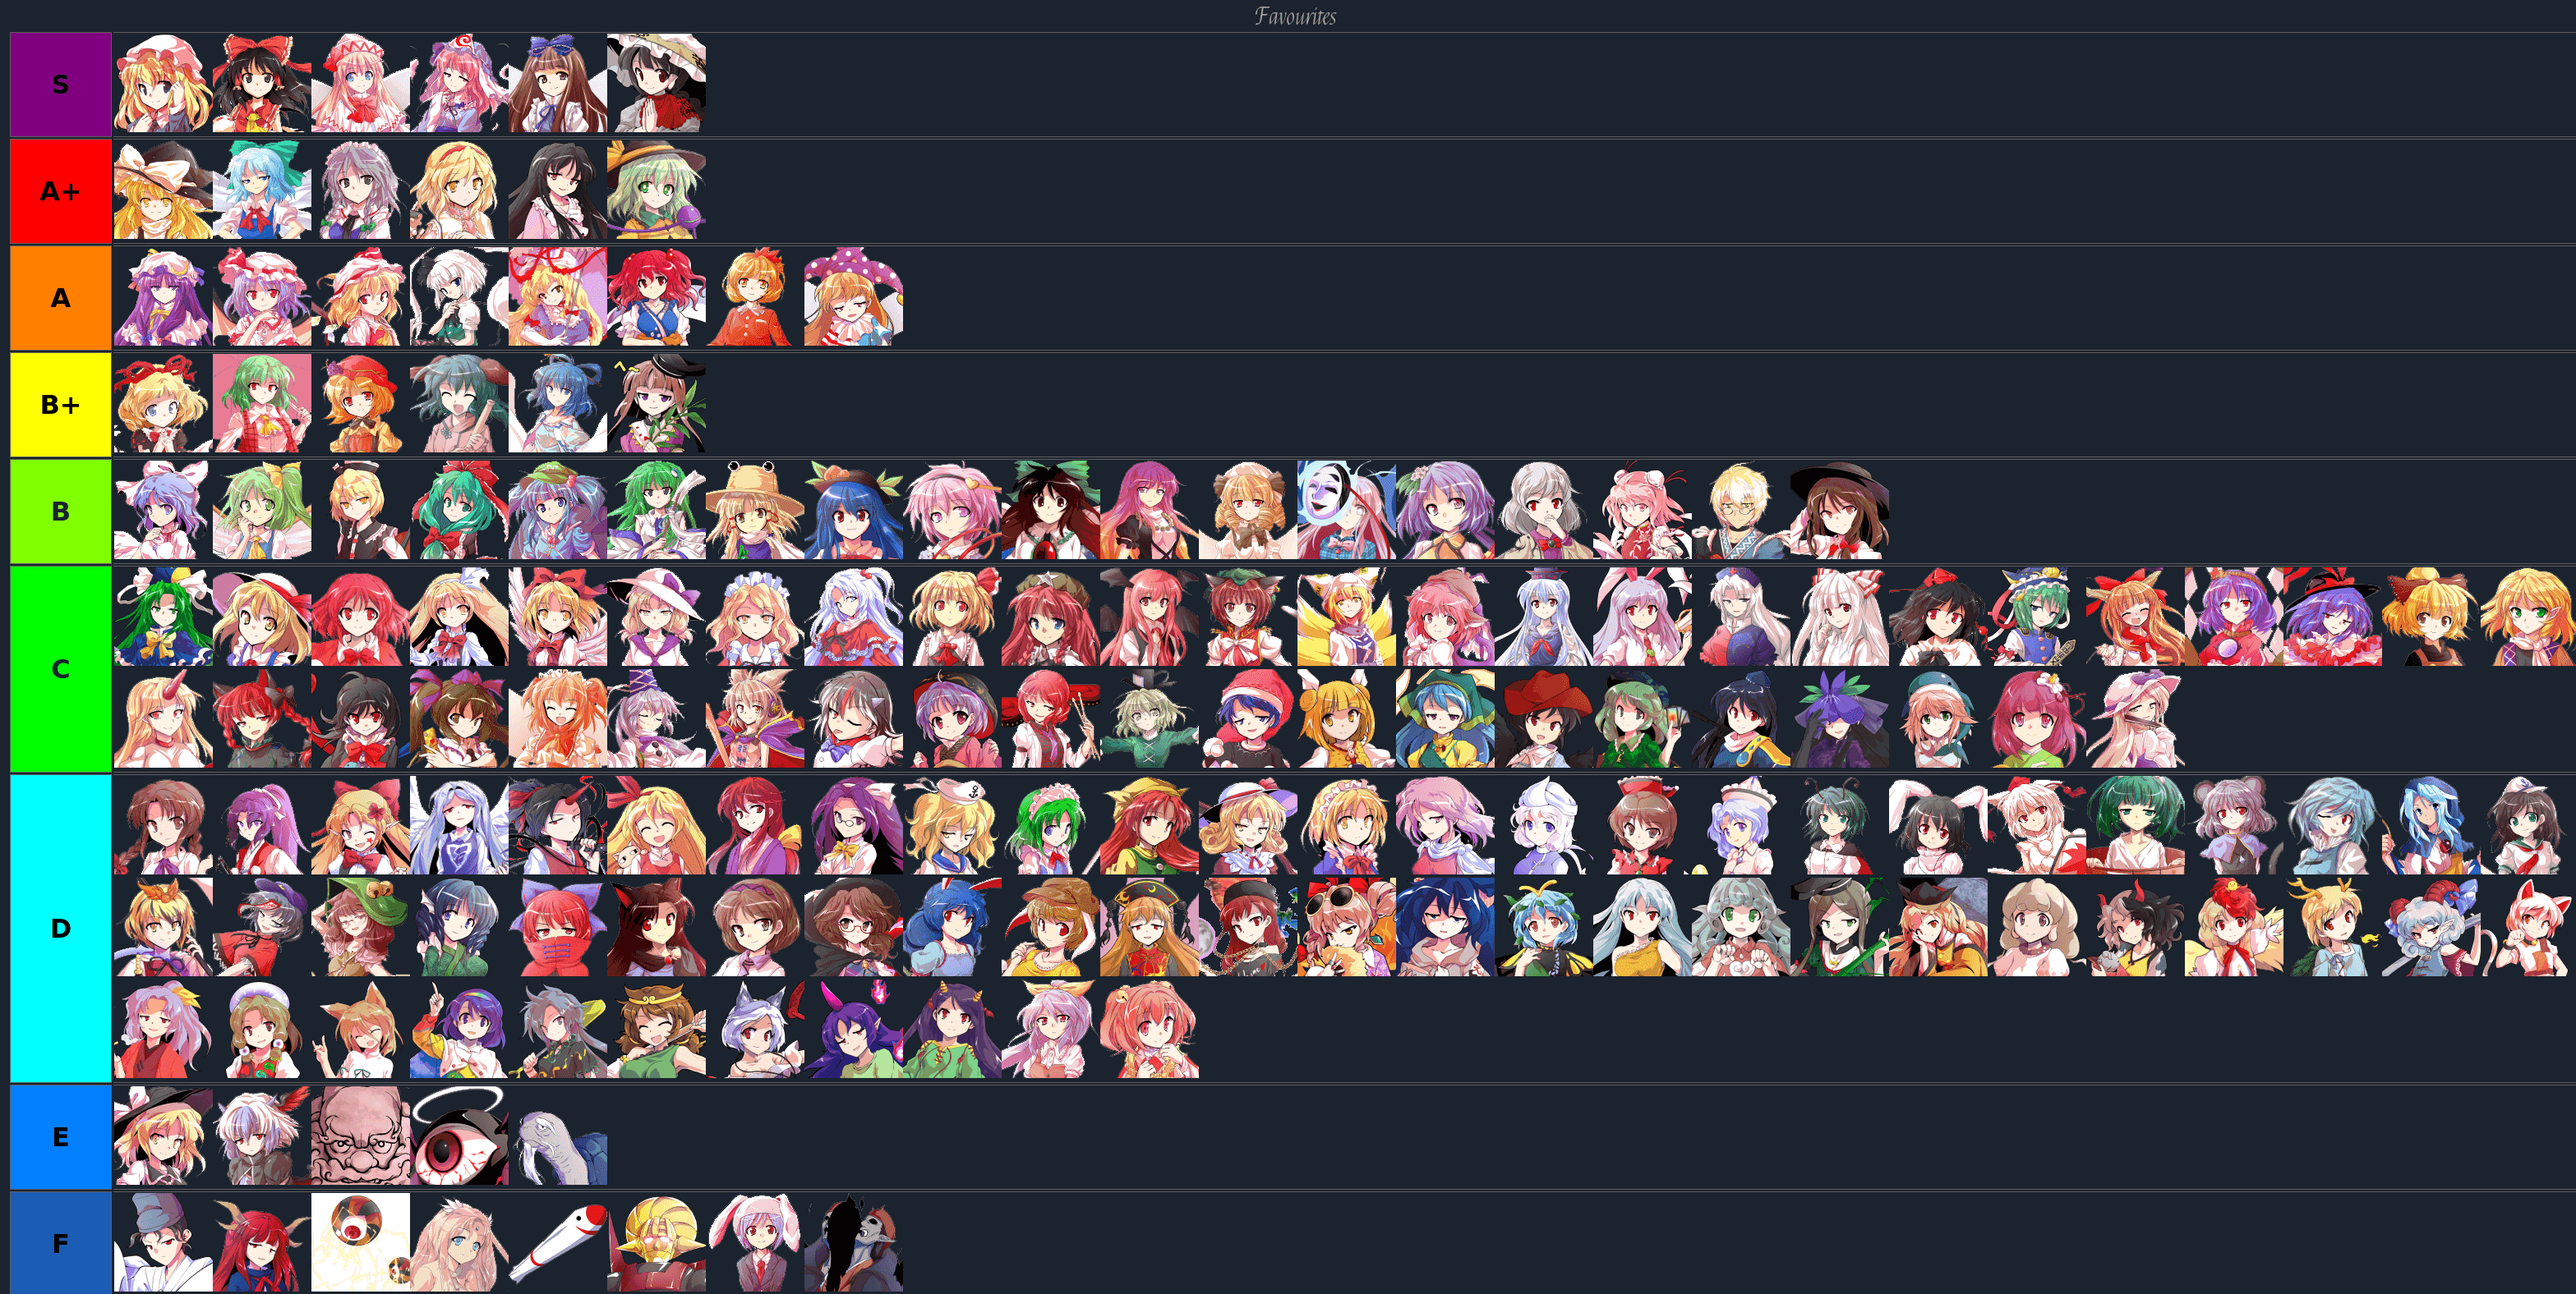
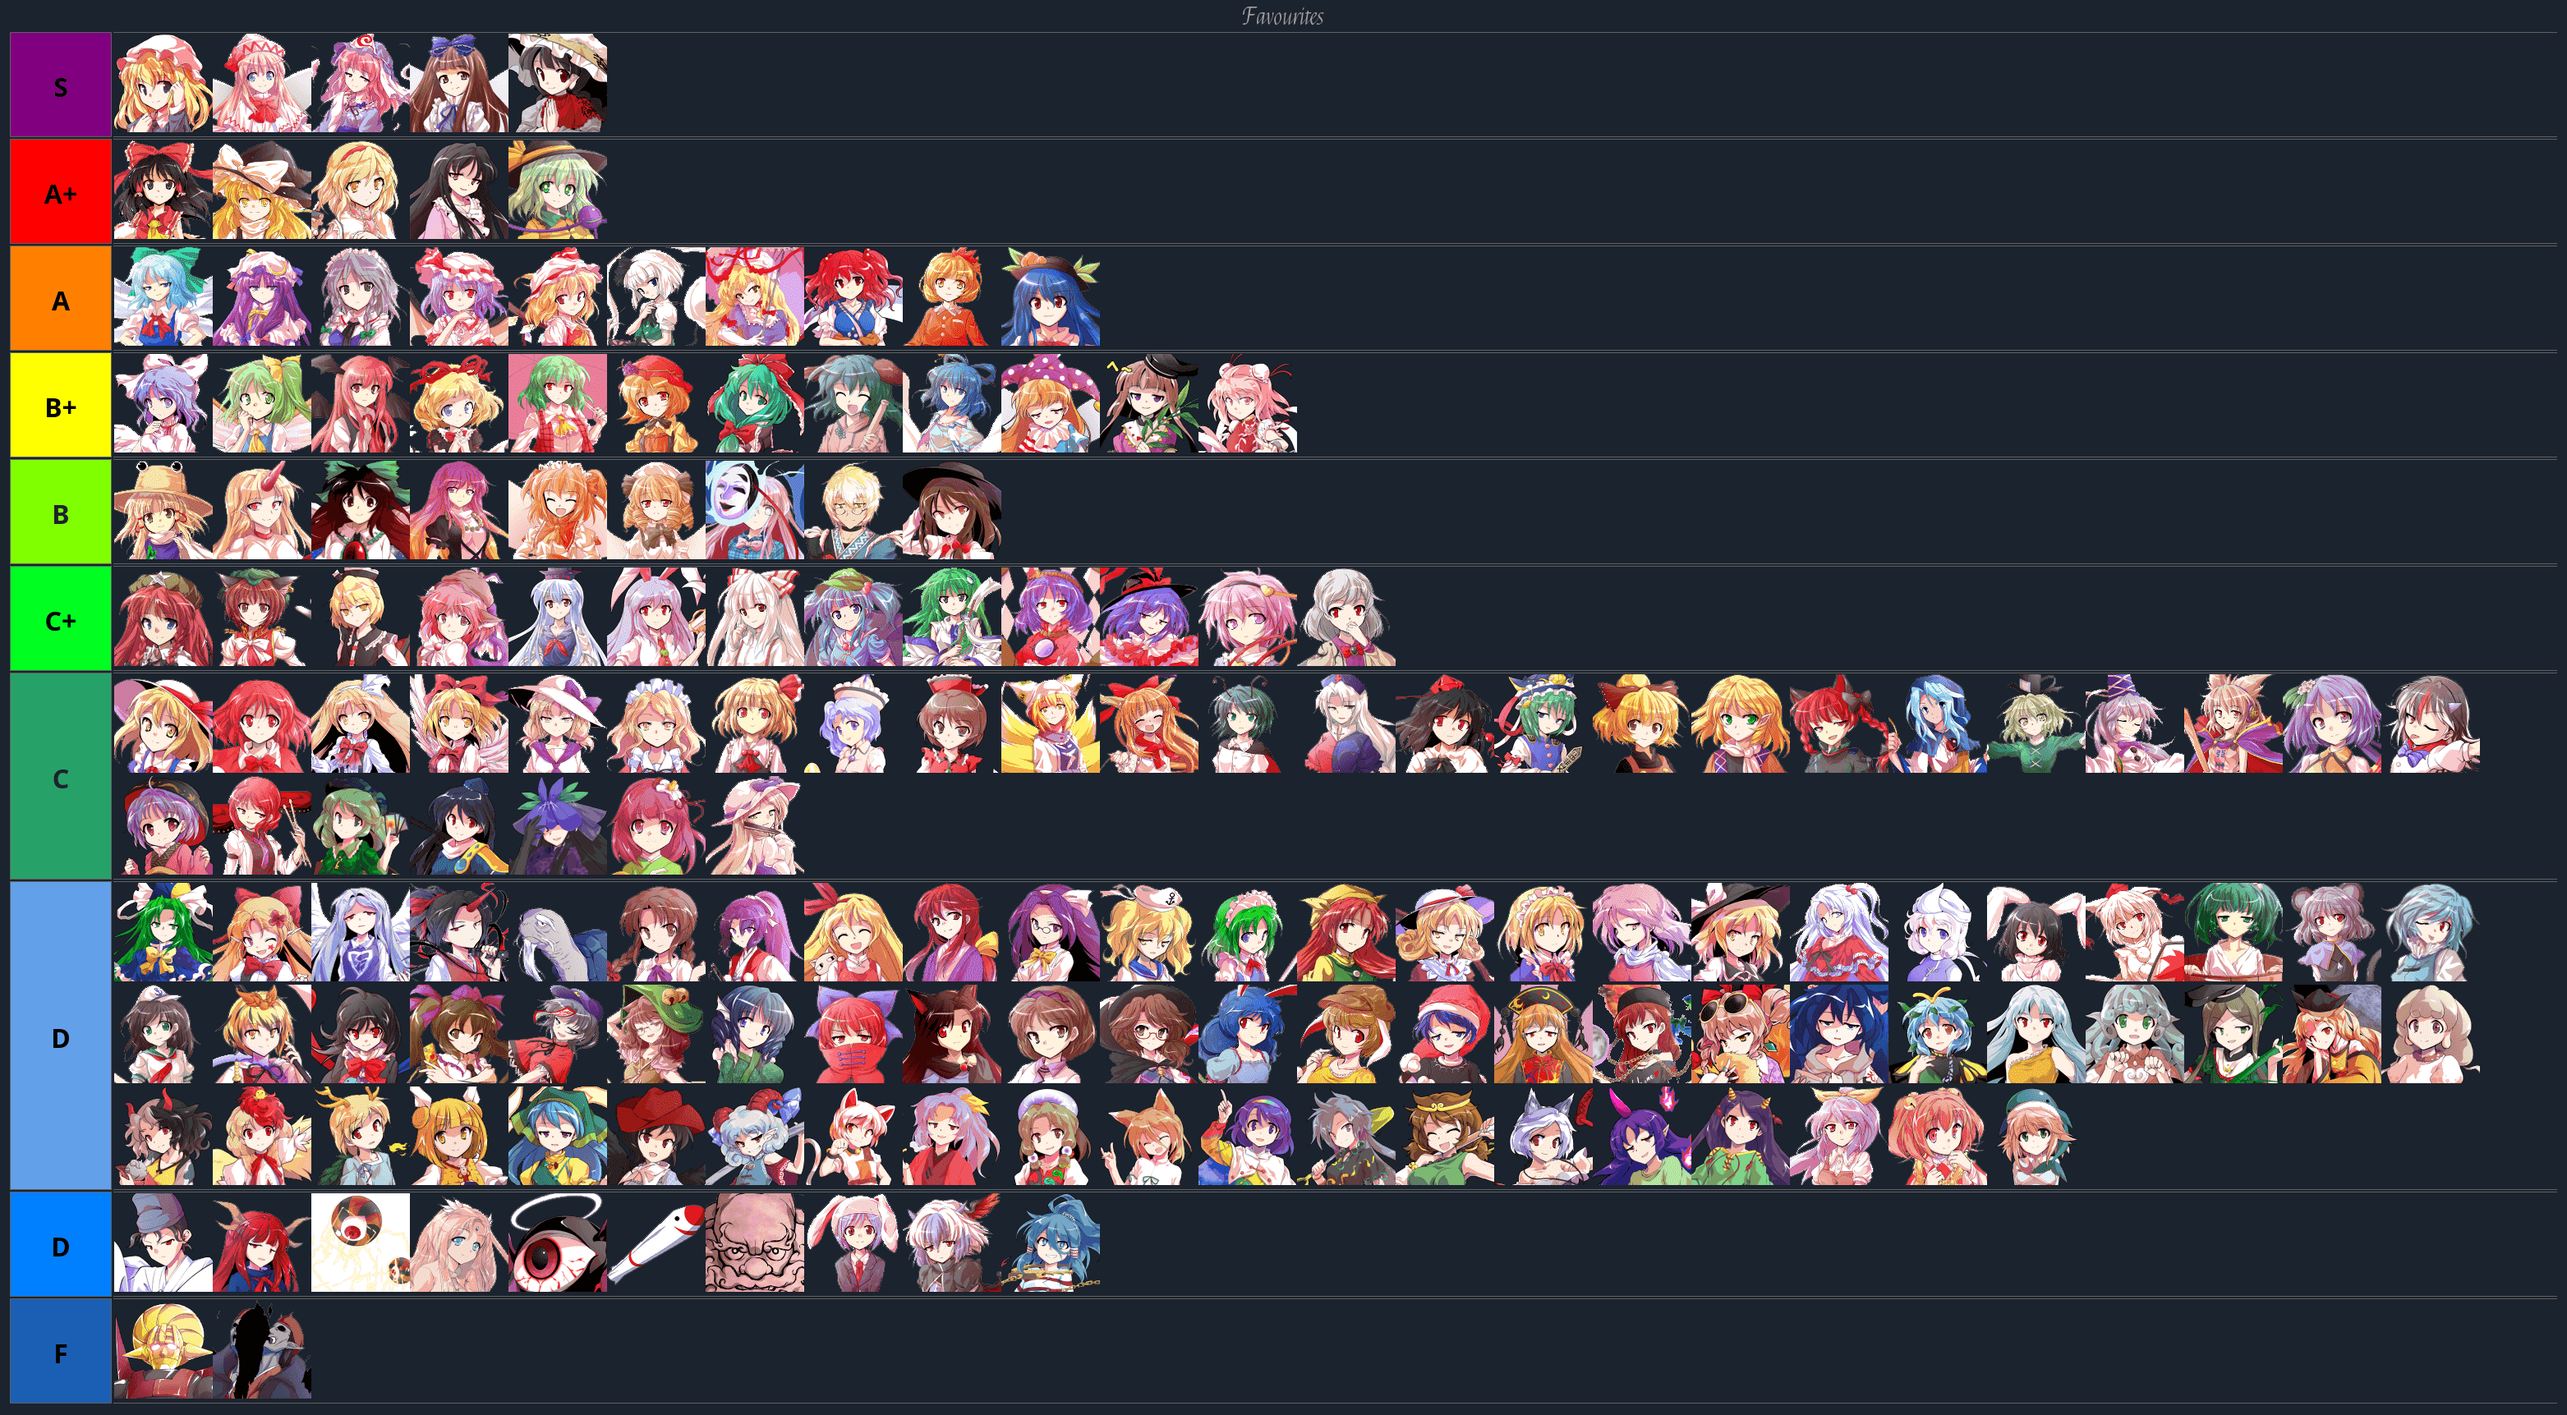
[About] Update about page

diff --git a/php/about.php b/php/about.php
@@ -40,9 +40,8 @@
         <li>Saitama Saisyu Heiki (aka S.S.H, most notably eXceed 3rd)</li>
     </ul>
     <p class='wide'>OST makes up more than 90% of all of my time spent listening to music. My favourite OSTs to listen to
-    include Labyrinth of Touhou, Seihou Shuusou Gyoku, Samidare, Dodonpachi Saidaioujou, Mushihime-sama as well as Futari,
-    Great Fairy Wars, Subterranean Animism, Shining Shooting Star, Mrs. Estacion, eXceed 3rd, Guwange and Ikaruga;
-    many more follow suit. Some of my favourite themes are listed in the table below.</p>
+    include Labyrinth of Touhou, Seihou Shuusou Gyoku and various other games that I have played.
+    Some of my favourite themes are listed in the table below.</p>
     <table id='music_links' class='noborders'>
         <thead>
             <tr>
@@ -52,6 +51,11 @@
             </tr>
         </thead>
         <tbody>
+            <tr>
+                <td><a href='https://www.youtube.com/watch?v=AAdHRSUNZUs' target='_blank'>Bloom Nobly, Ink-Black Cherry Blossom ~ Border of Life</a></td>
+                <td>Touhou 7: Perfect Cherry Blossom, Final Boss</td>
+                <td>ZUN</td>
+            </tr>
             <tr>
                 <td><a href='https://www.youtube.com/watch?v=pw2WQjqKpVM' target='_blank'>Flight of the Bamboo Cutter ~ Lunatic Princess</a></td>
                 <td>Touhou 8: Imperishable Night, Final Boss</td>
@@ -63,20 +67,48 @@
                 <td>ZUN</td>
             </tr>
             <tr>
+                <td><a href='https://www.youtube.com/watch?v=ITYCfbE76ZM' target='_blank'>The Venerable Ancient Battlefield ~ Suwa Foughten Field</a></td>
+                <td>Touhou 10: Mountain of Faith, Stage 5</td>
+                <td>ZUN</td>
+            </tr>
+            <tr>
+                <td><a href='https://www.youtube.com/watch?v=mkziV4fQy2Y' target='_blank'>Skies Beyond the Clouds</a></td>
+                <td>Touhou 10.5: Scarlet Weather Rhapsody, Iku Pre-Battle</td>
+                <td>U2 Akiyama</td>
+            </tr>
+            <tr>
+                <td><a href='https://www.youtube.com/watch?v=5Bda8sKdoIk' target='_blank'>Heartfelt Fancy</a></td>
+                <td>Touhou 11: Subterranean Animism, Stage 4</td>
+                <td>ZUN</td>
+            </tr>
+            <tr>
                 <td><a href='https://www.youtube.com/watch?v=7wEHo_uUgZ0' target='_blank'>Hartmann's Youkai Girl</a></td>
                 <td>Touhou 11: Subterranean Animism, Extra Stage Boss</td>
                 <td>ZUN</td>
+            </tr>
             <tr>
                 <td><a href='https://www.youtube.com/watch?v=yHlbViNW-eI' target='_blank'>The Refrain of the Lovely Great War</a></td>
                 <td>Touhou 12.8: Great Fairy Wars, Stage 1</td>
                 <td>ZUN</td>
+            </tr>
             <tr>
-                <td><a href='https://www.youtube.com/watch?v=IUKsMBN7dS4&t=54s' target='_blank'>The Hall of Dreams' Great Mausoleum</a></td>
+                <td><a href='https://www.youtube.com/watch?v=Sf0weS6_iuM' target='_blank'>Staking Your Life on a Prank</a></td>
+                <td>Touhou 12.8: Great Fairy Wars, Boss Battle</td>
+                <td>ZUN</td>
+            </tr>
+            <tr>
+                <td><a href='https://www.youtube.com/watch?v=IUKsMBN7dS4' target='_blank'>The Hall of Dreams' Great Mausoleum</a></td>
                 <td>Touhou 13: Ten Desires, Stage 5</td>
                 <td>ZUN</td>
+            </tr>
             <tr>
                 <td><a href='https://www.youtube.com/watch?v=0o8xTL_W-9I' target='_blank'>Illusionary White Traveler</a></td>
                 <td>Touhou 16: Hidden Star in Four Seasons, Stage 4</td>
+                <td>ZUN</td>
+            </tr>
+            <tr>
+                <td><a href='https://www.youtube.com/watch?v=sxpRSGm-2ao#t=5m29s' target='_blank'>False Strawberry</a></td>
+                <td>Seihou Shuusou Gyoku, Stage 1</td>
                 <td>ZUN</td>
             </tr>
             <tr>
@@ -90,9 +122,15 @@
                 <td>ZUN</td>
             </tr>
             <tr>
+                <td><a href='https://www.youtube.com/watch?v=HshrdY3Mu8I' target='_blank'>Endless Night View</a></td>
+                <td>Seihou Banshiryuu C67, Stage 2</td>
+                <td>halt, Doku Den P</td>
+            </tr>
+            <tr>
                 <td><a href='https://www.youtube.com/watch?v=gJuIRucytTc' target='_blank'>Trans--</a></td>
                 <td>Seihou Banshiryuu C67, Final Boss</td>
                 <td>halt, Doku Den P</td>
+            </tr>
             <tr>
                 <td><a href='https://www.youtube.com/watch?v=OfH1FrSlDws' target='_blank'>Broken Strawberry Shortcake</a></td>
                 <td>Samidare, Extra Stage Second Boss</td>
@@ -104,14 +142,29 @@
                 <td>Misora</td>
             </tr>
             <tr>
+                <td><a href='https://www.youtube.com/watch?v=hW0imzh6KiU' target='_blank'>And Forever, the End of the Dream</a></td>
+                <td>Mrs. Estacion, Staff Roll</td>
+                <Td>Misora</td>
+            </tr>
+            <tr>
                 <td><a href='https://www.youtube.com/watch?v=L_aUBbZ2rJQ' target='_blank'>Eternal Stars in Memories</a></td>
                 <td>Touhou Shining Shooting Star, Stage 5</td>
                 <td>Shihenwx</td>
             </tr>
             <tr>
+                <td><a href='https://www.youtube.com/watch?v=AoE-S6z5K-E' target='_blank'>Flowers in the Wind, Moon in the Snow</a></td>
+                <td>Touhou Shining Shooting Star, Extra Boss</td>
+                <td>11</td>
+            </tr>
+            <tr>
                 <td><a href='https://www.youtube.com/watch?v=8ym2uK-nm7k' target='_blank'>Reality</a></td>
                 <td>Ikaruga, Stage 4</td>
                 <td>Hiroshi Iuchi</td>
+            </tr>
+            <tr>
+                <td><a href='https://www.youtube.com/watch?v=5kjD1AYEpV0' target='_blank'>Geo Frontier</a></td>
+                <td>Batsugun, Stage 5</td>
+                <td>Yoshitatsu Sakai</td>
             </tr>
             <tr>
                 <td><a href='https://www.youtube.com/watch?v=MipAMcUWQfI' target='_blank'>Ai</a></td>
@@ -126,6 +179,11 @@
             <tr>
                 <td><a href='https://www.youtube.com/watch?v=SimTGe2xYno' target='_blank'>Vertigo</a></td>
                 <td>Dodonpachi Daifukkatsu Black Label, Stage 5</td>
+                <td>Manabu Namiki</td>
+            </tr>
+            <tr>
+                <td><a href='https://www.youtube.com/watch?v=TumC-lBTD6U' target='_blank'>Walking on the Land of Flame</a></td>
+                <td>Mushihimesama, Stage 3</td>
                 <td>Manabu Namiki</td>
             </tr>
             <tr>
@@ -144,6 +202,16 @@
                 <td>Manabu Namiki</td>
             </tr>
             <tr>
+                <td><a href='https://www.youtube.com/watch?v=CYSAwgic8nc' target='_blank'>Aerial ~ Sadness Bathes in Dust</a></td>
+                <td>Espgaluda II, Stage 4</td>
+                <td>Manabu Namiki</td>
+            </tr>
+            <tr>
+                <td><a href='https://www.youtube.com/watch?v=I-CmMZxvFO0' target='_blank'>Galuda ~ Achieving Perfection</a></td>
+                <td>Espgaluda II, Stage 6</td>
+                <td>Manabu Namiki</td>
+            </tr>
+            <tr>
                 <td><a href='https://www.youtube.com/watch?v=C4OIyerQUWU' target='_blank'>Maid to Order</a></td>
                 <td>eXceed 3rd JADE PENETRATE, Stage 4</td>
                 <td>Saitama Saisyu Heiki (S.S.H)</td>
@@ -159,23 +227,69 @@
                 <td>Saitama Saisyu Heiki (S.S.H)</td>
             </tr>
             <tr>
-                <td><a href='https://www.youtube.com/watch?v=nvowdGnQjXY' target='_blank'>Road to the Globe</a></td>
+                <td><a href='https://www.youtube.com/watch?v=ZG6n3zXnCiA' target='_blank'>The Fortress City Lea Monde</a></td>
+                <td>Labyrinth of Touhou, Dungeon (floors 3F, 4F, 29F)**</td>
+                <td>KMF</td>
+            </tr>
+            <tr>
+                <td><a href='https://www.youtube.com/watch?v=P5-0SONpflc' target='_blank'>Road to the Globe</a></td>
                 <td>Labyrinth of Touhou, Dungeon (floors 7F, 13F, 22F, 24F)*</td>
                 <td>Rengoku Teien</td>
             </tr>
             <tr>
-                <td><a href='https://www.youtube.com/watch?v=Q441gfsvzKM' target='_blank'>Dark a Liar</a></td>
+                <td><a href='https://www.youtube.com/watch?v=Hd26EqXP4PE' target='_blank'>Dark a Liar</a></td>
                 <td>Labyrinth of Touhou, Final Boss*</td>
                 <td>Rengoku Teien</td>
+            </tr>
+            <tr>
+                <td><a href='https://www.youtube.com/watch?v=gJkVwt_JJXo' target='_blank'>Stickerbush Symphony</a></td>
+                <td>Super Smash Bros. Brawl</td>
+                <td>Michiko Naruke</td>
+            </tr>
+            <tr>
+                <td><a href='https://www.youtube.com/watch?v=L_jHGmrmyh0' target='_blank'>Battle! Gym Leader</a></td>
+                <td>Pokemon Ruby, Sapphire, Emerald</td>
+                <td>Junichi Masuda</td>
             </tr>
             <tr>
                 <td><a href='https://www.youtube.com/watch?v=llnXhrCn9Yo' target='_blank'>Battle! Elite Four</a></td>
                 <td>Pokemon Black and White, Elite Four</td>
                 <td>Junichi Masuda</td>
             </tr>
+            <tr>
+                <td><a href='https://www.youtube.com/watch?v=WuhqoZvyntA' target='_blank'>Miror B. Battle</a></td>
+                <td>Pokemon XD</td>
+                <td>Tsukasa Tawada</td>
+            </tr>
+            <tr>
+                <td><a href='https://www.youtube.com/watch?v=g-4iSpyW5YY' target='_blank'>Title Screen</a></td>
+                <td>Pokemon Battle Revolution</td>
+                <td>Tsukasa Tawada</td>
+            </tr>
+            <tr>
+                <td><a href='https://www.youtube.com/watch?v=wprKfKj7tsc' target='_blank'>Neon Colosseum</a></td>
+                <td>Pokemon Battle Revolution</td>
+                <td>Tsukasa Tawada</td>
+            </tr>
+            <tr>
+                <td><a href='https://www.youtube.com/watch?v=iFJ_0h2j-Zk' target='_blank'>Battle! T-Fanger</a></td>
+                <td>Keitai Denjuu Telefang 2</td>
+                <td>Minako Adachi</td>
+            </tr>
+            <tr>
+                <td><a href='https://www.youtube.com/watch?v=QWiztiajOtI' target='_blank'>Rock Star</a></td>
+                <td>Kirby 64</td>
+                <td>Jun Ishikawa</td>
+            </tr>
+            <tr>
+                <td><a href='https://www.youtube.com/watch?v=HCIMHn5FEYQ' target='_blank'>Factory Inspection</a></td>
+                <td>Kirby 64</td>
+                <td>Jun Ishikawa</td>
+            </tr>
         </tbody>
     </table>
     <p class='wide-top'>* Rengoku Teien is a group of composers that produces royalty-free music; Labyrinth of Touhou simply uses it, among music by other composers.</p>
+    <p class='wide-top'>** Same story as above; this is royalty-free music that was used in Labyrinth of Touhou, but I personally associate it with the game.</p>
     <p class='wide-top'>Vertigo is possibly my favourite piece of music of all time.</p>
     <h2 id='trivia'>Trivia</h2>
     <ul>
@@ -192,7 +306,7 @@
     <h2 id='touhou'>Touhou Taste</h2>
     <figure>
         <img id='tiers' src='assets/main/about/tiers.png' alt='Maribel&#39;s Touhou character tier list'>
-        <figcaption><em>Touhou character tier list as of 22 September 2023</em></figcaption>
+        <figcaption><em>Touhou character tier list as of 31 October 2024</em></figcaption>
     </figure>
     <footer class='wide-top'><strong><a href='#top'>Back to Top</a></strong></footer>
 </div>
